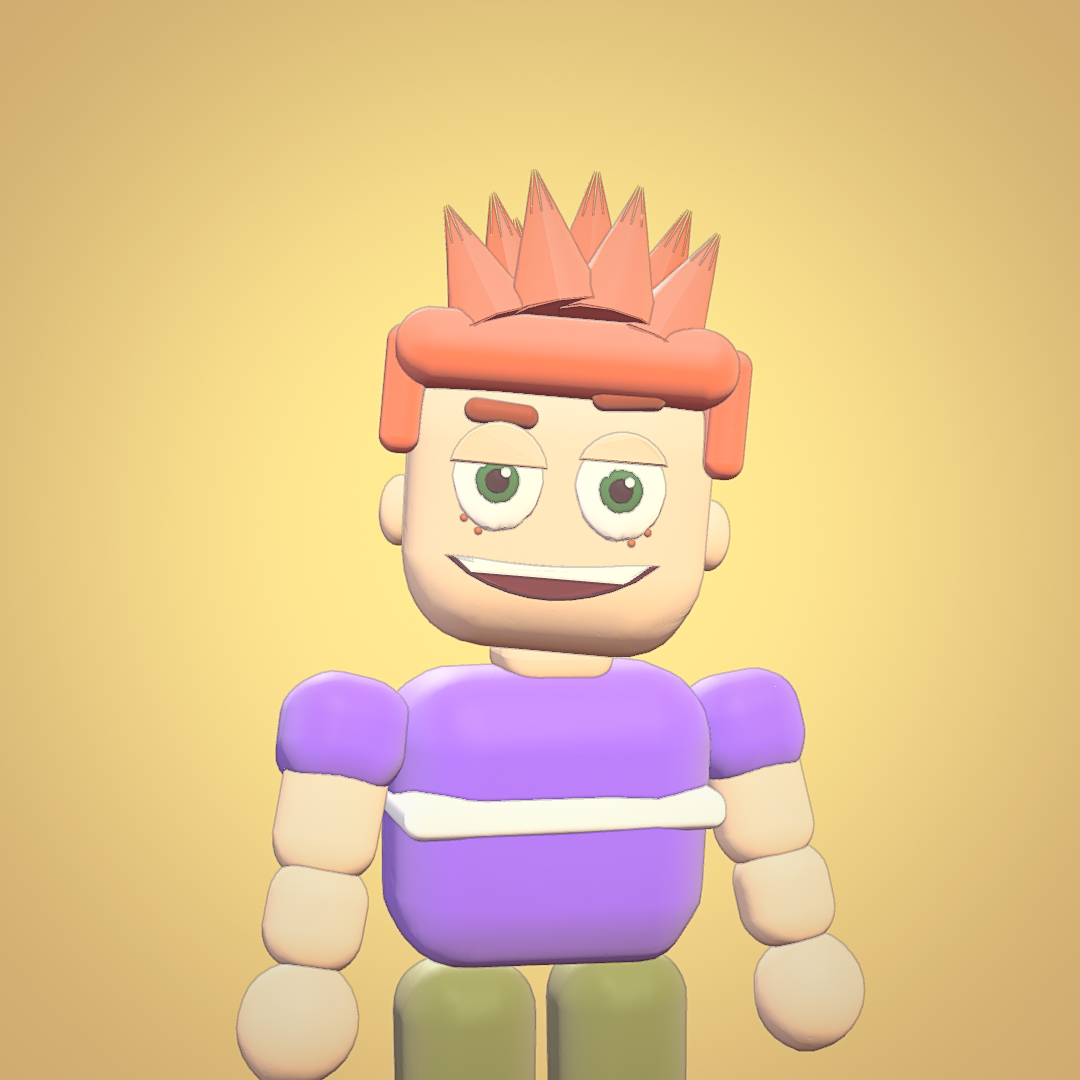
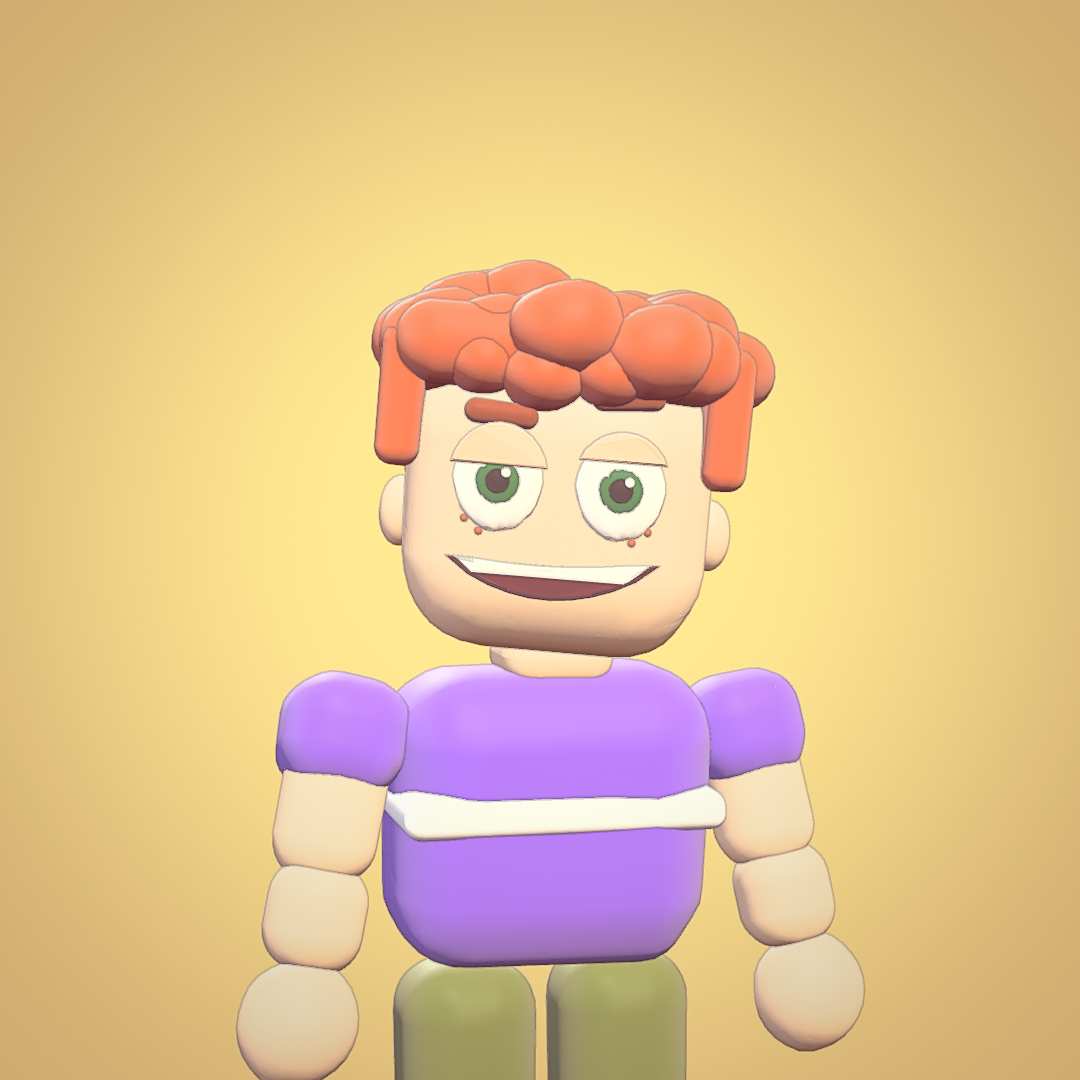
storytime: homie gets a clay mop of copper curls (new curls hair style) instead of the spiky crown; branding re-rendered
Claude-Session: https://claude.ai/code/session_01D7r6b8scXvdqMK5K8hbLeu

Changed region(s): [[0.3361, 0.1528, 0.7333, 0.4583]]

diff --git a/finance/render-pc/src/storytime/cast.tsx b/finance/render-pc/src/storytime/cast.tsx
@@ -155,6 +155,26 @@ const Hair: React.FC<{ st: FigState }> = ({ st }) => {
         </group>
       );
     }
+    case "curls": {
+      // a messy mop of clay curls: a cap plus rolled balls of different sizes, a few flopping onto the forehead
+      const balls: [number, number, number, number][] = [];
+      for (let i = 0; i < 26; i++) {
+        const a = i * 2.39996, r = 0.06 + 0.2 * Math.sqrt((i + 0.5) / 26);
+        const x = Math.cos(a) * r, z = Math.sin(a) * r * 0.92 - 0.01;
+        const y = top + 0.07 - (r * r) * 0.9 + 0.02 * Math.sin(i * 1.7);
+        balls.push([x, y, z, 0.07 + 0.025 * ((i * 37) % 5) / 4]);
+      }
+      const fringe: [number, number, number, number][] = [[-0.13, top - 0.02, hd / 2 - 0.02, 0.06], [-0.04, top - 0.035, hd / 2 - 0.005, 0.065], [0.06, top - 0.025, hd / 2 - 0.01, 0.06], [0.15, top - 0.015, hd / 2 - 0.03, 0.055]];
+      return (
+        <group>
+          <mesh geometry={lumpBox(hw + 0.05, 0.14, hd + 0.05, 0.065)} material={m} position={[0, top + 0.005, -0.005]} />
+          <mesh geometry={lumpBox(0.07, 0.22, hd + 0.02, 0.03)} material={m} position={[hw / 2 + 0.01, top - 0.08, -0.03]} />
+          <mesh geometry={lumpBox(0.07, 0.22, hd + 0.02, 0.03)} material={m} position={[-hw / 2 - 0.01, top - 0.08, -0.03]} />
+          <mesh geometry={lumpBox(hw + 0.04, 0.26, 0.07, 0.03)} material={m} position={[0, top - 0.09, -hd / 2 - 0.015]} />
+          {[...balls, ...fringe].map(([x, y, z, r], i) => <mesh key={i} geometry={lumpBall(r, 1, 0.85, 1, r * 0.12)} material={m} position={[x, y, z]} />)}
+        </group>
+      );
+    }
     case "puff":
       return <mesh geometry={lumpBall(0.29, 1, 0.62, 0.95)} material={m} position={[0, top + 0.06, -0.05]} />;
     case "bob":

diff --git a/finance/render-pc/src/storytime/branding.tsx b/finance/render-pc/src/storytime/branding.tsx
@@ -17,7 +17,7 @@ import type { CastSpec } from "./types";
 
 export const BRAND_CAST: Record<"me" | "homie", CastSpec> = {
   me: { name: "me", skin: "#9a6240", hair: "#1b1410", hairStyle: "flattop", top: "#f2b632", topStyle: "hoodie", trim: "#ffffff", pants: "#2f3a56", shoes: "#f5f5f5", brow: "#1b1410", eye: "#3b2416" },
-  homie: { name: "homie", skin: "#f4cfa6", hair: "#e2622b", hairStyle: "spiky", top: "#7b4fd6", topStyle: "tee", trim: "#ffffff", pants: "#6b7a3a", shoes: "#22223b", brow: "#8a3b14", eye: "#2e6f3e", freckles: true },
+  homie: { name: "homie", skin: "#f4cfa6", hair: "#c4541c", hairStyle: "curls", top: "#7b4fd6", topStyle: "tee", trim: "#ffffff", pants: "#6b7a3a", shoes: "#22223b", brow: "#8a3b14", eye: "#2e6f3e", freckles: true },
 };
 const mood = (() => {
   const flat = (c: string) => ({ top: c, mid: c, bottom: c, cloudColor: c, cloudLit: "#ffffff", clouds: 0, stars: 0, rays: 0, horizon: 0.16, brush: 0, sun: { dir: [-0.6, 0.12, -1] as V3, color: "#ffffff", size: 6 }, sunOn: 0, moon: { dir: [-0.4, 0.45, -1] as V3, color: "#ffffff", size: 4 }, moonOn: 0 });

diff --git a/finance/render-pc/src/storytime/compile.ts b/finance/render-pc/src/storytime/compile.ts
@@ -143,7 +143,7 @@ export const headCenter = (st: Pick<FigState, "x" | "z" | "yaw" | "sit" | "s" | 
 /** QA boxes: the head (incl. hair), the face (front of the head), the torso */
 export const kidBoxes = (st: FigState) => {
   const c = headCenter(st), s = st.s;
-  const hairTop = st.spec.hairStyle === "spiky" ? 0.13 : st.spec.hairStyle === "puff" ? 0.12 : st.spec.hairStyle === "flattop" ? 0.1 : 0.05;
+  const hairTop = st.spec.hairStyle === "spiky" ? 0.13 : st.spec.hairStyle === "curls" ? 0.13 : st.spec.hairStyle === "puff" ? 0.12 : st.spec.hairStyle === "flattop" ? 0.1 : 0.05;
   const head = { c: [c[0], c[1] + (hairTop * s) / 2, c[2]] as V3, h: [(K.headW * 0.5 + 0.03) * s, (K.headH / 2 + hairTop / 2) * s, (K.headD * 0.5 + 0.03) * s] as V3 };
   const face = { c, h: [K.headW * 0.5 * s, K.headH * 0.5 * s, K.headD * 0.5 * s] as V3 };
   const hip = hipY(st.sit) * s + st.bob;

diff --git a/finance/render-pc/src/storytime/gallery.ts b/finance/render-pc/src/storytime/gallery.ts
@@ -5,7 +5,7 @@ import { EXPRS } from "./types";
 
 const cast: Recipe["cast"] = {
   me: { name: "me", skin: "#9a6240", hair: "#1b1410", hairStyle: "flattop", top: "#f2b632", topStyle: "hoodie", trim: "#ffffff", pants: "#2f3a56", shoes: "#f5f5f5", brow: "#1b1410" },
-  homie: { name: "homie", skin: "#f4cfa6", hair: "#e2622b", hairStyle: "spiky", top: "#7b4fd6", topStyle: "tee", trim: "#ffffff", pants: "#6b7a3a", shoes: "#22223b", brow: "#8a3b14", freckles: true },
+  homie: { name: "homie", skin: "#f4cfa6", hair: "#c4541c", hairStyle: "curls", top: "#7b4fd6", topStyle: "tee", trim: "#ffffff", pants: "#6b7a3a", shoes: "#22223b", brow: "#8a3b14", freckles: true },
 };
 const shots: Shot[] = [];
 let t = 0;

diff --git a/finance/render-pc/src/storytime/types.ts b/finance/render-pc/src/storytime/types.ts
@@ -91,7 +91,7 @@ export type CastSpec = {
   name: string;
   skin: string;
   hair: string;
-  hairStyle: "flattop" | "spiky" | "buzz" | "puff" | "bob";
+  hairStyle: "flattop" | "spiky" | "curls" | "buzz" | "puff" | "bob";
   top: string;
   topStyle: "hoodie" | "tee" | "jacket";
   trim: string;

diff --git a/finance/render-pc/src/storytime/gen/deez_nuts_ep1.story.gen.ts b/finance/render-pc/src/storytime/gen/deez_nuts_ep1.story.gen.ts
@@ -26,8 +26,8 @@ export const RECIPE: Recipe = {
   "homie": {
    "name": "homie",
    "skin": "#f4cfa6",
-   "hair": "#e2622b",
-   "hairStyle": "spiky",
+   "hair": "#c4541c",
+   "hairStyle": "curls",
    "top": "#7b4fd6",
    "topStyle": "tee",
    "trim": "#ffffff",

diff --git a/finance/render-pc/KIT_STORYTIME.md b/finance/render-pc/KIT_STORYTIME.md
@@ -68,7 +68,7 @@ Other kits are untouched. The only shared change is one line in the `recipe_buil
   Any anchor takes a `+0.2` / `-0.1` offset. An event without `at` happens at the shot's start.
 - **CastSpec fields:**
   - `skin`, `hair`;
-  - `hairStyle`: `flattop` | `spiky` | `buzz` | `puff` | `bob`;
+  - `hairStyle`: `flattop` | `spiky` | `curls` | `buzz` | `puff` | `bob`;
   - `top`, `topStyle`: `hoodie` | `tee` | `jacket`;
   - `trim`, `pants`, `shoes`, `brow`;
   - optional `eye`, `freckles` and `height`.

diff --git a/finance/shorts/deez-nuts-ep1/RECIPE_QA.md b/finance/shorts/deez-nuts-ep1/RECIPE_QA.md
@@ -6,7 +6,7 @@ Composition `DeezNutsEp1Recipe` in `src/index.storytime.ts` (1080x1920, 30 fps, 
 
 - none: the two leads never intersect each other or a set blocker.
 
-## Framing QA (screen space, 2342 frames, 0.11 s): 0 clip(s), 0 fail(s)
+## Framing QA (screen space, 2342 frames, 0.12 s): 0 clip(s), 0 fail(s)
 
 Rules: RECIPE_GUIDE.md "Framing rules". R1 head clips 0, R2 subject/edge 0, R3 board past edge 0, R4 contrast 0, R4 text size 0, R5 frame 0 0, R6 caption on face/neck 0. Frame-0 face: homie 502 px.
 
